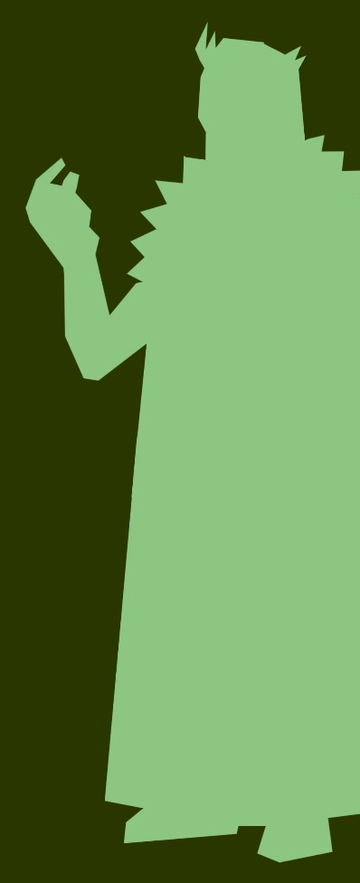
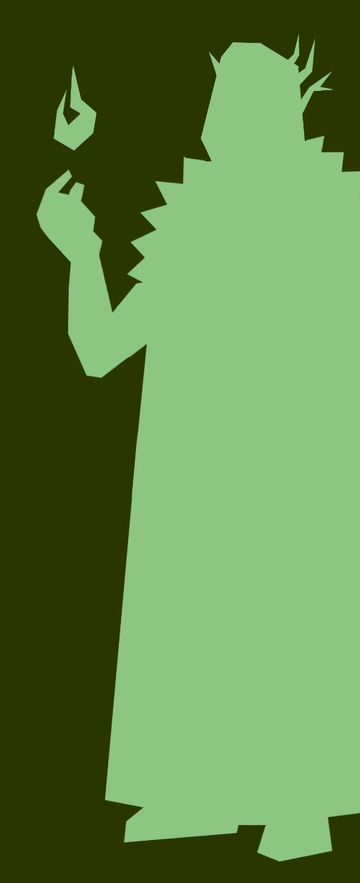
Home: new Ivan card art; full cutouts on phone strips

diff --git a/web/app/page.tsx b/web/app/page.tsx
@@ -36,11 +36,11 @@ const PLATFORM_ORDER = ["roll20", "foundry"]; //bracket order left -> right; unk
 const EASE = [0.22, 1, 0.36, 1] as const; //same curve as --ease in globals.css
 
 //hand-drawn silhouettes keyed by lowercase first name; bg = the drawing's own backdrop colour (files in web/public/art/sil)
-const SIL: Record<string, { src: string; bg: string }> = {
-  lazlo: { src: "/art/sil/lazlo.png", bg: "#422657" },
-  vasha: { src: "/art/sil/vasha.png", bg: "#57170e" },
-  idris: { src: "/art/sil/idris.png", bg: "#002458" },
-  ivan: { src: "/art/sil/ivan.png", bg: "#293600" },
+const SIL: Record<string, { src: string; cut: string; bg: string }> = { //src = card art, cut = full transparent cutout (phone strips)
+  lazlo: { src: "/art/sil/lazlo.png", cut: "/art/sil/cut/lazlo.png", bg: "#422657" },
+  vasha: { src: "/art/sil/vasha.png", cut: "/art/sil/cut/vasha.png", bg: "#57170e" },
+  idris: { src: "/art/sil/idris.png", cut: "/art/sil/cut/idris.png", bg: "#002458" },
+  ivan: { src: "/art/sil/ivan.png", cut: "/art/sil/cut/ivan.png", bg: "#293600" },
 };
 
 //--------------------------------------------------------------------------------------------------------------
@@ -183,7 +183,7 @@ function Panel({
         className={`panel ${sil ? "has-sil" : ""} ${isActive ? "is-active" : ""}`}
         style={{
           ...themeVars(c.name), //character ramp + accent as local CSS vars
-          ...(sil && { "--sil": `url(${sil.src})`, "--sil-bg": sil.bg }), //silhouette art + its backdrop colour
+          ...(sil && { "--sil": `url(${sil.src})`, "--sil-cut": `url(${sil.cut})`, "--sil-bg": sil.bg }), //card art, phone cutout + backdrop colour
         } as React.CSSProperties}
         onPointerDown={(e) => (touch.current = e.pointerType === "touch")}
         onMouseEnter={() => !touch.current && setActive(c.id)}

diff --git a/web/app/globals.css b/web/app/globals.css
@@ -319,8 +319,8 @@ Home v2: header, character panels, info panel
   .panel { flex-direction: row; min-height: 0; padding: 16px 18px; }
   .panel-name { writing-mode: horizontal-tb; font-size: 1.4rem; }
   .panel-foot { align-items: flex-end; text-align: right; }
-  .panel.has-sil { flex-direction: column; align-items: flex-start; justify-content: center; padding: 14px 18px; background-position: right 10px top 12%; background-size: 34% auto; } /* text left, figure's head and shoulders on the right */
-  .panel.has-sil::before { inset: 0; height: auto; background: linear-gradient(90deg, var(--sil-bg) 55%, transparent 80%); }
+  .panel.has-sil { flex-direction: column; align-items: flex-start; justify-content: center; padding: 14px 18px; background: var(--sil-bg) var(--sil-cut) right 18px center / auto 90% no-repeat; } /* text left; whole cutout figure on the right, nothing clipped */
+  .panel.has-sil::before { display: none; } /* cutout has its own empty space, no fade needed */
   .panel.has-sil .panel-name { margin-bottom: 2px; }
   .panel.has-sil .panel-foot { align-items: flex-start; text-align: left; }
 }
